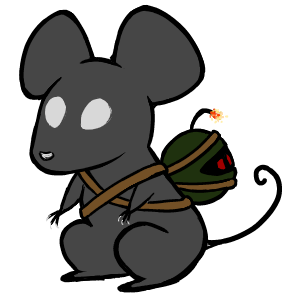
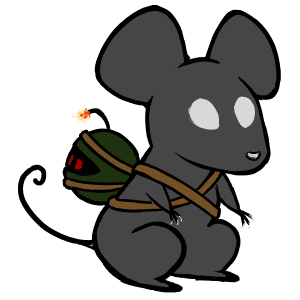
flipX para los enemigos

diff --git a/project/src/game/scenes/GameScene.cpp b/project/src/game/scenes/GameScene.cpp
@@ -26,6 +26,7 @@
 #include "../../our_scripts/components/cards/Deck.hpp"
 #include "../../our_scripts/components/rendering/dyn_image.hpp"
 #include "../../our_scripts/components/rendering/dyn_image_with_frames.hpp"
+#include "../../our_scripts/components/rendering/FlipXController.h"
 #include "../../our_scripts/components/AnimationComponent.h"
 #include "../../our_scripts/components/rendering/camera_component.hpp"
 
@@ -278,6 +279,7 @@ ecs::entity_t GameScene::create_enemy(EnemySpawnConfig&& ec){
 			*ec.tr
 		),
 		new Health(ec.health),
+		new FlipXController(),
 		new enemy_collision_triggerer(),
 		new id_component(),
 		ec.weapon,
@@ -285,9 +287,9 @@ ecs::entity_t GameScene::create_enemy(EnemySpawnConfig&& ec){
 		&col
 	);
 
-
 	// BUG: ^^^^ justo ahí arriba se añade el weapon
-	// if (weapon != nullptr)manager.addExistingComponent<Weapon>(e, weapon);
+	//para ratatouille es necesario saber si es null weapon
+	//if (ec.weapon != nullptr)manager.addExistingComponent<Weapon>(e, ec.weapon);
 
 	return e;
 }
@@ -442,7 +444,7 @@ GameScene::spawn_catkuza(Vector2D posVec) {
 
 	// Crear estados
 	auto walkingState = std::make_shared<WalkingState>(&tr, _p_tr, &mc);
-	uint32_t a = 1000;
+	
 	auto dashState = std::make_shared<DashingState>(&tr, _p_tr, &mc);
 	auto chargingState = std::make_shared<WaitingState>();
 

diff --git a/project/src/our_scripts/components/Health.cpp b/project/src/our_scripts/components/Health.cpp
@@ -2,7 +2,6 @@
 #include "../../sdlutils/SDLUtils.h"
 #include "../../ecs/Manager.h"
 #include "../../game/Game.h"
-#include "rendering/offset_dyn_image.hpp"
 #include "rendering/dyn_image.hpp"
 #include "rendering/dyn_image_with_frames.hpp"
 #include <algorithm>
@@ -13,13 +12,9 @@ Health::~Health() {};
 
 void Health::initComponent()
 {
-	dyn_image* temp = Game::Instance()->get_mngr()->getComponent<dyn_image>(_ent);
-	if (temp) _dy = static_cast<offset_dyn_image*>(temp);
-	else 
-	{
-		dyn_image_with_frames* temp2 = Game::Instance()->get_mngr()->getComponent<dyn_image_with_frames>(_ent);
-		_dy = static_cast<offset_dyn_image*>(temp2);
-	}
+	_dy = Game::Instance()->get_mngr()->getComponent<dyn_image>(_ent);
+	if (!_dy) _dy = Game::Instance()->get_mngr()->getComponent<dyn_image_with_frames>(_ent);
+	
 	assert(_dy != nullptr);
 }
 void

diff --git a/project/src/our_scripts/components/rendering/FlipXController.cpp b/project/src/our_scripts/components/rendering/FlipXController.cpp
@@ -1,0 +1,23 @@
+#include "FlipXController.h"
+#include "../../../ecs/Manager.h"
+#include "../../../game/Game.h"
+#include "../movement/Transform.h"
+#include "dyn_image.hpp"
+#include "dyn_image_with_frames.hpp"
+
+FlipXController::FlipXController() :_tr(nullptr), _dy(nullptr) {}
+
+void FlipXController::initComponent() {
+	_tr = Game::Instance()->get_mngr()->getComponent<Transform>(_ent);
+	assert(_tr != nullptr);
+
+	_dy = Game::Instance()->get_mngr()->getComponent<dyn_image>(_ent);
+	if (!_dy) _dy = Game::Instance()->get_mngr()->getComponent<dyn_image_with_frames>(_ent);
+	assert(_dy != nullptr);
+}
+
+void FlipXController::update(uint32_t delta_time) {
+	(void)delta_time;
+	if (_tr->getDir().getX() < -0.01) _dy->flip = SDL_FLIP_HORIZONTAL;
+	else _dy->flip = SDL_FLIP_NONE;
+}

diff --git a/project/src/our_scripts/components/rendering/offset_dyn_image.hpp b/project/src/our_scripts/components/rendering/offset_dyn_image.hpp
@@ -21,7 +21,7 @@ struct offset_dyn_image : public ecs::Component {
 	bool isDamaged;
 	uint32_t damageTimer;
 	const uint32_t damage_color_duration;
-	SDL_RendererFlip _flip;
+	SDL_RendererFlip flip;
 
 	virtual void render() override;
 	void update(uint32_t delta_time) override;
@@ -36,7 +36,7 @@ struct offset_dyn_image : public ecs::Component {
 		Texture &texture,
 		const Transform &transform
 	) : subrect(subrect), offset(offset), output_rect(output_rect), camera(camera), 
-		texture(texture), transform(transform), isDamaged(false), damageTimer(0), damage_color_duration(250),_flip(SDL_FLIP_NONE){};
+		texture(texture), transform(transform), isDamaged(false), damageTimer(0), damage_color_duration(250),flip(SDL_FLIP_NONE){};
 };
 
 #endif

diff --git a/project/src/our_scripts/components/rendering/offset_dyn_image.cpp b/project/src/our_scripts/components/rendering/offset_dyn_image.cpp
@@ -21,13 +21,12 @@ void offset_dyn_image::render() {
         .y = int((subrect.position.y) * float(texture.height())),
         .w = int(subrect.size.x * float(texture.width())),
         .h = int(subrect.size.y * float(texture.height()))
-        }, destination, transform.getRot(), nullptr, _flip);
+        }, destination, transform.getRot(), nullptr, flip);
     setRenderColor(255, 255, 255);
 }
 
 void offset_dyn_image::update(uint32_t delta_time)
 {
-    //_flip = transform.getDir().getX() < -0.001 ? SDL_FLIP_HORIZONTAL : SDL_FLIP_NONE;
     if (isDamaged) {
         damageTimer += delta_time;
         if (damageTimer >=damage_color_duration) {

diff --git a/project/src/our_scripts/components/rendering/FlipXController.h b/project/src/our_scripts/components/rendering/FlipXController.h
@@ -1,0 +1,17 @@
+#pragma once
+#include "../../../ecs/Component.h"
+class Transform;
+struct 	offset_dyn_image;
+class FlipXController :public ecs::Component
+{
+public:
+	__CMPID_DECL__(ecs::cmp::FLIPXCONTROLLER);
+
+	FlipXController();
+	virtual ~FlipXController() {};
+	void initComponent() override;
+	void update(uint32_t delta_time) override;
+protected:
+	offset_dyn_image* _dy;
+	Transform* _tr;
+};

diff --git a/project/src/game/ecs_defs.h b/project/src/game/ecs_defs.h
@@ -44,6 +44,7 @@
 	ENEMY_TRIGGERER, \
 	ID_COMPONENT,\
 	ANIMATIONCOMPONENT,\
+	FLIPXCONTROLLER,\
 	COLLISION_REGISTRATION_BY_ID,\
 	REWARDDATACOMPONENT
 
